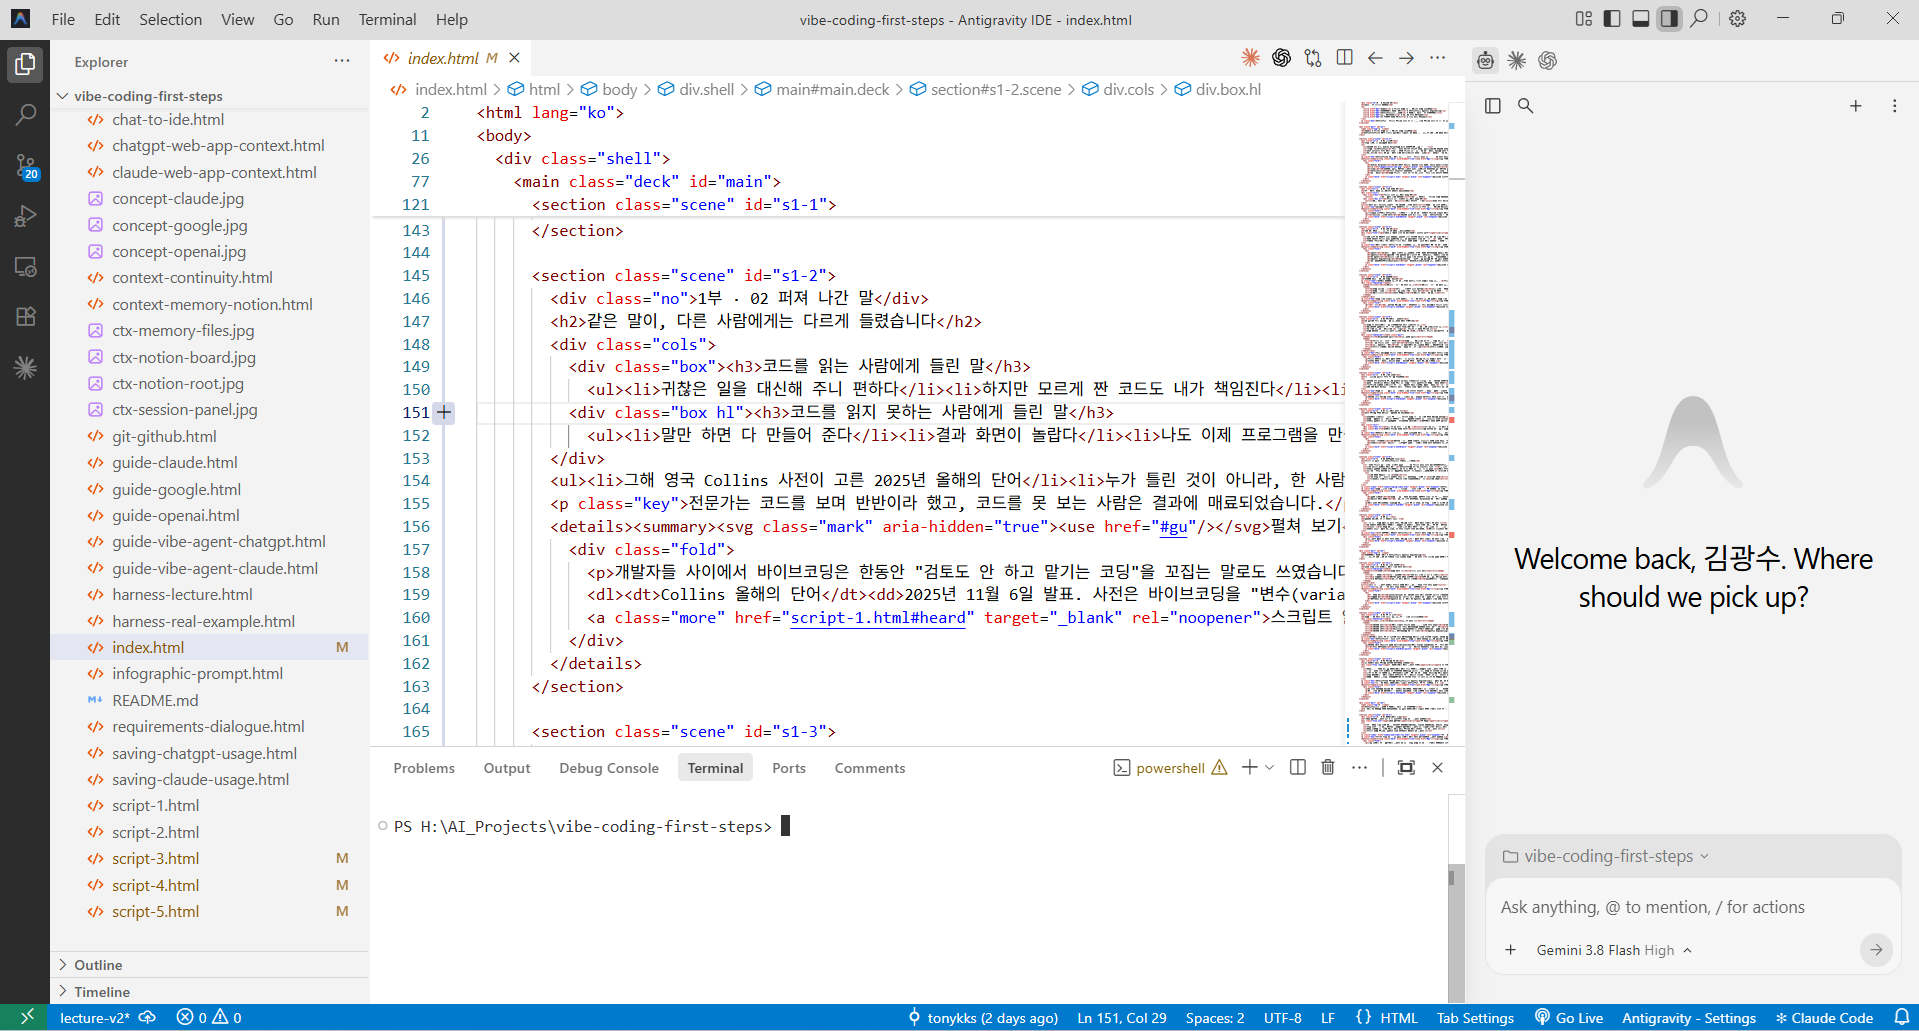
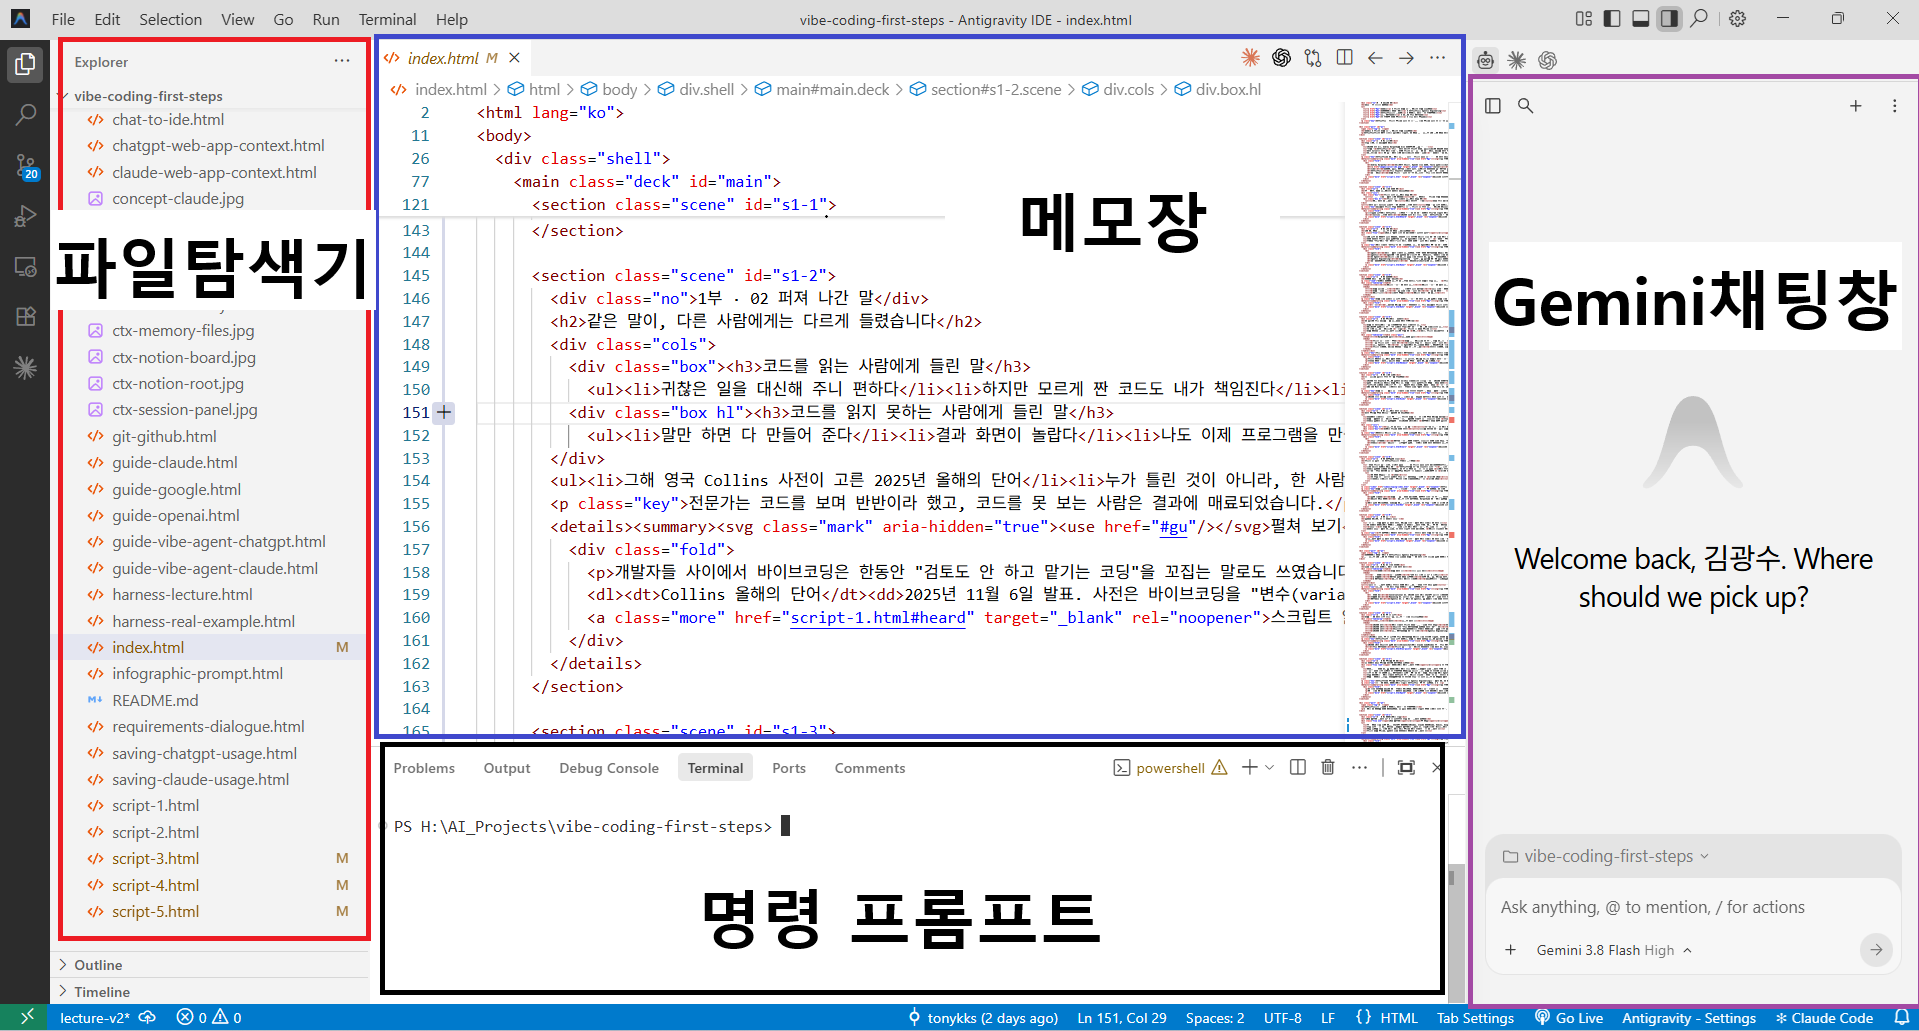
4부 IDE: Antigravity 화면 그림 넣고 표·설명을 색 상자에 맞춤

diff --git a/script-4.html b/script-4.html
@@ -41,15 +41,16 @@
     <div class="kicker">2 · IDE</div>
     <h2 id="ide">IDE는 이미 아는 프로그램 넷을 한곳에 모은 것입니다</h2>
     <p>에이전트를 여럿 앉히려면 그들이 함께 일할 작업 공간이 필요합니다. 여기서 IDE가 나옵니다. IDE는 통합 개발 환경(Integrated Development Environment)의 줄임말로, 프로그램을 만들고, 파일을 관리하고, 실행하고, 오류를 보는 데 필요한 도구를 한곳에 모은 작업 공간입니다. 원래 프로그래머가 쓰던 도구지만, 이제는 코드를 쓰지 않는 사람도 AI 코딩 에이전트와 함께 씁니다.</p>
-    <p>처음 IDE 화면을 보면 영어도 많고 창도 여러 개라 복잡해 보입니다. 그런데 하나씩 보면 이미 아는 프로그램 넷을 한 화면에 모은 것입니다.</p>
+    <figure class="fig"><img src="images/antigravity-ide.png" alt="Antigravity IDE 화면을 파일 탐색기·메모장·Gemini 채팅창·명령 프롬프트 네 칸으로 나눠 표시한 그림"><figcaption>Antigravity IDE 화면<br>[빨간 상자: 파일 탐색기, 파란 상자: 메모장, 보라 상자: Gemini 채팅창, 검은 상자: 명령 프롬프트]</figcaption></figure>
+    <p>처음 IDE 화면을 보면 영어도 많고 창도 여러 개라 복잡해 보입니다. 그런데 위 그림처럼 하나씩 나눠 보면 이미 아는 프로그램 넷을 한 화면에 모은 것입니다.</p>
     <div class="tablewrap"><table><thead><tr><th>IDE 화면</th><th>이미 아는 것</th><th>하는 일</th></tr></thead><tbody>
-      <tr><td>왼쪽</td><td>파일 탐색기</td><td>프로젝트의 폴더와 파일 보기</td></tr>
-      <tr><td>가운데</td><td>메모장</td><td>파일(소스코드) 열어 보기·고치기</td></tr>
-      <tr><td>옆 대화창</td><td>ChatGPT 채팅창</td><td>AI 코딩 에이전트에게 우리말로 시키기</td></tr>
-      <tr><td>아래</td><td>명령 프롬프트</td><td>터미널에서 문자로 명령을 내리고 결과 보기</td></tr>
+      <tr><td>왼쪽 (빨간 상자)</td><td>파일 탐색기</td><td>프로젝트의 폴더와 파일 보기</td></tr>
+      <tr><td>가운데 (파란 상자)</td><td>메모장</td><td>파일(소스코드) 열어 보기·고치기</td></tr>
+      <tr><td>오른쪽 (보라 상자)</td><td>ChatGPT·Gemini 채팅창</td><td>AI 코딩 에이전트에게 우리말로 시키기</td></tr>
+      <tr><td>아래 (검은 상자)</td><td>명령 프롬프트</td><td>터미널에서 문자로 명령을 내리고 결과 보기</td></tr>
     </tbody></table></div>
     <p>왼쪽은 Windows 파일 탐색기처럼 프로젝트의 폴더와 파일을 보여 줍니다. 가운데는 메모장처럼 파일을 열어 내용을 보는 곳입니다. 여기에 보이는 것이 소스코드, 곧 프로그램이 할 일을 프로그래밍 언어로 적은 글입니다. 이것을 다 읽고 이해해야 한다는 뜻은 아닙니다. AI가 어떤 파일을 만들고 고쳤는지 눈으로 볼 수 있다는 것이 중요합니다.</p>
-    <p>옆의 대화창은 ChatGPT 채팅창과 같습니다. "타이머의 종료 알림음을 바꿔 줘. 다른 기능은 건드리지 마"처럼 우리말로 시키면, 에이전트가 프로젝트의 파일을 찾아 고칩니다. 아래쪽 터미널은 문자로 명령을 입력하고 결과를 보는 창으로, Windows의 명령 프롬프트나 PowerShell과 같은 것입니다. 명령어를 외울 필요는 없습니다. 에이전트가 쓰고 실행합니다. 다만 파일을 지우거나 외부 서비스에 접근하는 중요한 명령은 사람의 확인을 받게 해 둡니다.</p>
+    <p>오른쪽 대화창은 ChatGPT나 Gemini 채팅창과 같습니다. "타이머의 종료 알림음을 바꿔 줘. 다른 기능은 건드리지 마"처럼 우리말로 시키면, 에이전트가 프로젝트의 파일을 찾아 고칩니다. 아래쪽 터미널은 문자로 명령을 입력하고 결과를 보는 창으로, Windows의 명령 프롬프트나 PowerShell과 같은 것입니다. 명령어를 외울 필요는 없습니다. 에이전트가 쓰고 실행합니다. 다만 파일을 지우거나 외부 서비스에 접근하는 중요한 명령은 사람의 확인을 받게 해 둡니다.</p>
     <p>실제로 쓰는 것은 채팅창 하나입니다. 나머지는 에이전트가 일하는 모습을 보는 곳입니다. 그래도 AI가 어느 폴더에 어떤 파일을 만드는지 눈으로 볼 수 있으니 나쁘지 않습니다.</p>
     <p>요즘 IDE는 안에 AI 대화창을 품고 나옵니다. VS Code에는 GitHub의 AI인 Copilot이, Cursor에는 자체 AI가, Google의 Antigravity에는 Gemini 기반의 기본 에이전트가 들어 있습니다. 그리고 다른 회사의 에이전트도 확장으로 설치할 수 있습니다. 한 화면에 여러 회사의 에이전트가 함께 앉을 수 있다는 뜻입니다.</p>
     <p>여기서 IDE와 코딩 에이전트를 구분해 두겠습니다. 집을 짓는 일에 빗대면, IDE는 설계도와 자재와 도구가 있는 건축 현장입니다. 코딩 에이전트는 그 현장에서 설계하고 시공하고 검사하는 작업자입니다. 현장이 있다고 집이 저절로 지어지지 않듯, IDE를 설치했다고 프로그램이 만들어지지 않습니다. 일하는 작업자와, 그들에게 일을 나눠 주는 사람이 필요합니다.</p>
